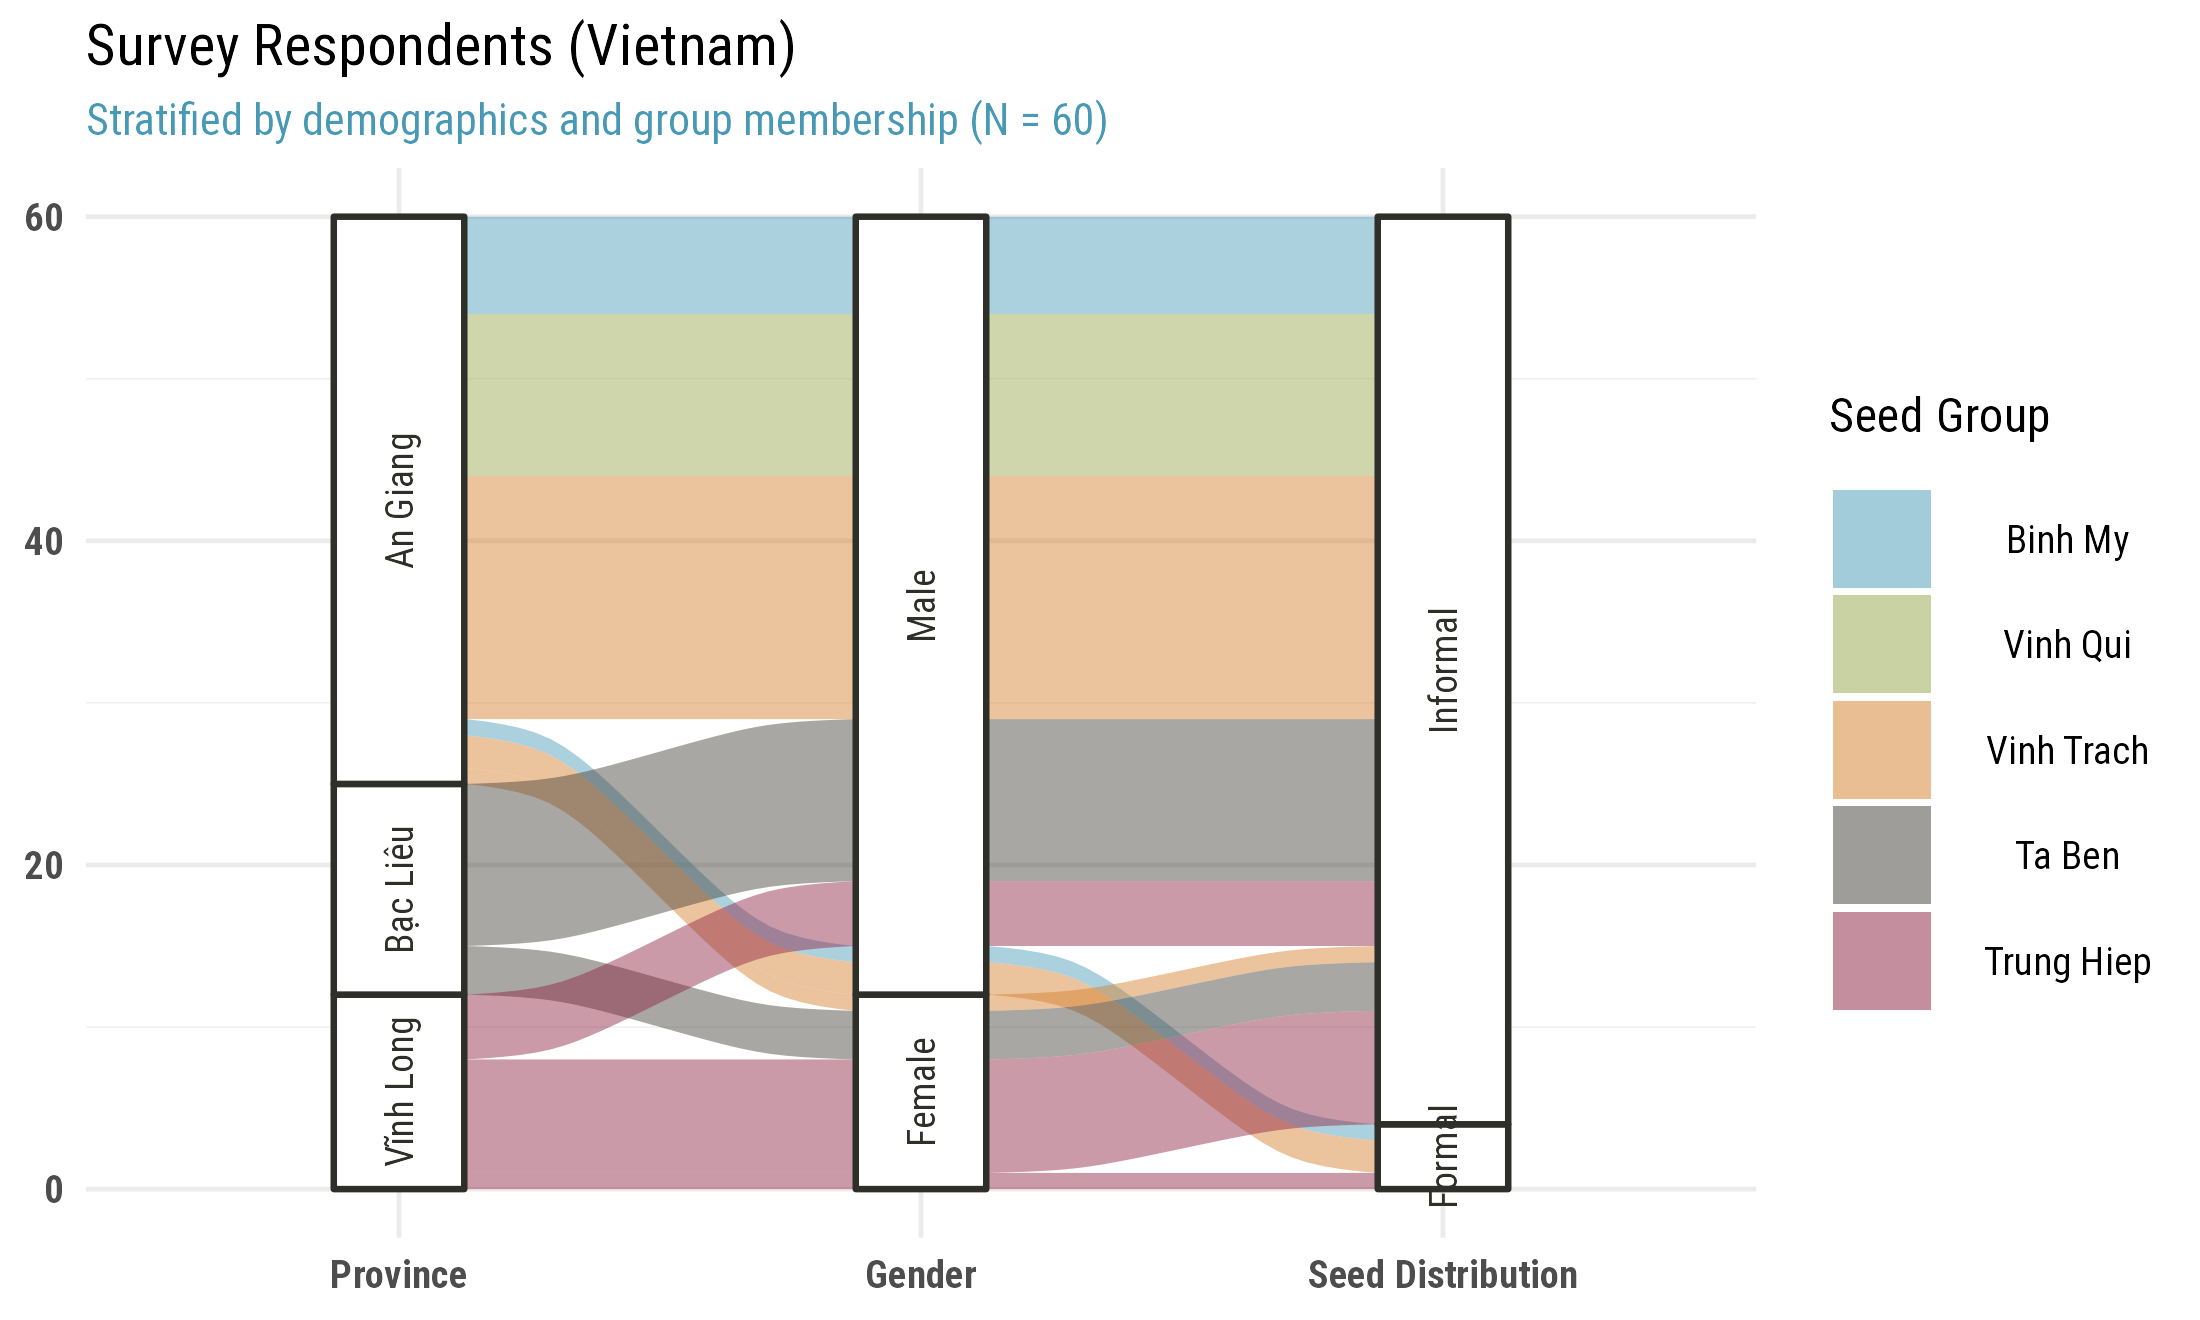
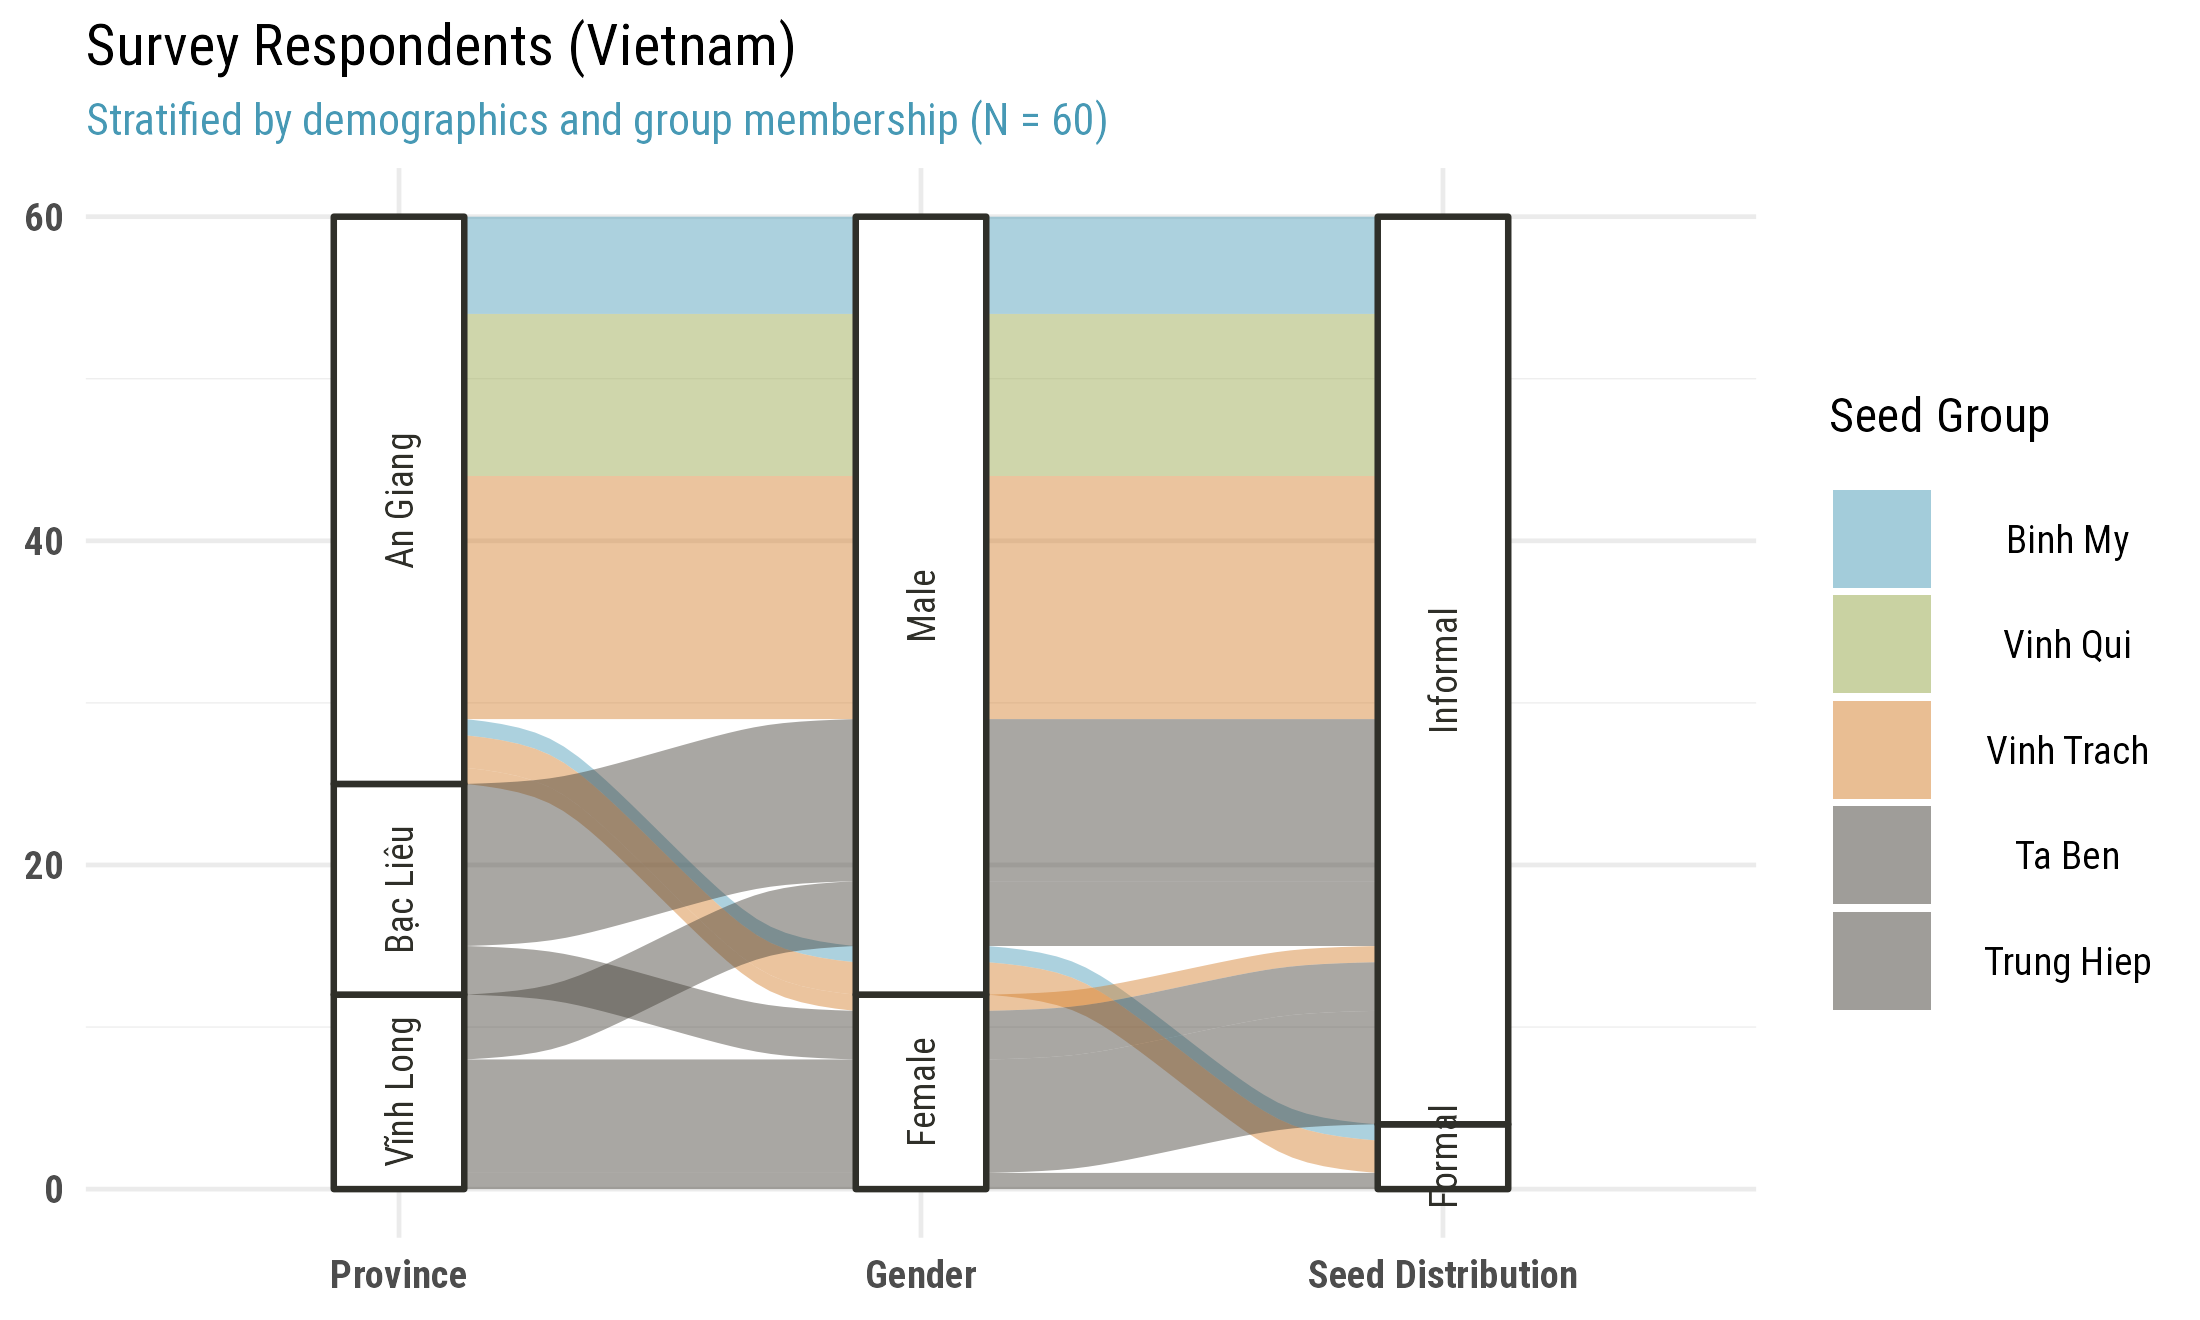
palette

diff --git a/docs/index.html b/docs/index.html
@@ -186,7 +186,7 @@ code span.wa { font-style: italic; } /* Warning */
 <span id="cb1-14"><a href="index.html#cb1-14" aria-hidden="true" tabindex="-1"></a><span class="co"># Default theme for plots</span></span>
 <span id="cb1-15"><a href="index.html#cb1-15" aria-hidden="true" tabindex="-1"></a><span class="fu">thematic_on</span>(<span class="st">&quot;transparent&quot;</span>, <span class="st">&quot;#2f2f29&quot;</span>, <span class="fu">c</span>(<span class="st">&quot;#4799b5&quot;</span>, <span class="st">&quot;#e6e7e8&quot;</span>),</span>
 <span id="cb1-16"><a href="index.html#cb1-16" aria-hidden="true" tabindex="-1"></a>  <span class="fu">font_spec</span>(<span class="fu">c</span>(<span class="st">&quot;Roboto Condensed&quot;</span>, <span class="st">&quot;Roboto&quot;</span>)),</span>
-<span id="cb1-17"><a href="index.html#cb1-17" aria-hidden="true" tabindex="-1"></a>  <span class="at">qualitative =</span> <span class="fu">alpha</span>(<span class="fu">c</span>(<span class="st">&quot;#4799b5&quot;</span>, <span class="st">&quot;#94a545&quot;</span>, <span class="st">&quot;#d37d28&quot;</span>, <span class="st">&quot;#403b33&quot;</span>, <span class="st">&quot;#8B1E3F&quot;</span>, <span class="st">&quot;#403b33&quot;</span>), .<span class="dv">9</span>))</span>
+<span id="cb1-17"><a href="index.html#cb1-17" aria-hidden="true" tabindex="-1"></a>  <span class="at">qualitative =</span> <span class="fu">alpha</span>(<span class="fu">c</span>(<span class="st">&quot;#4799b5&quot;</span>, <span class="st">&quot;#94a545&quot;</span>, <span class="st">&quot;#d37d28&quot;</span>, <span class="st">&quot;#403b33&quot;</span>, <span class="st">&quot;#403b33&quot;</span>, <span class="st">&quot;#8B1E3F&quot;</span>), .<span class="dv">9</span>))</span>
 <span id="cb1-18"><a href="index.html#cb1-18" aria-hidden="true" tabindex="-1"></a></span>
 <span id="cb1-19"><a href="index.html#cb1-19" aria-hidden="true" tabindex="-1"></a>theme_def <span class="ot">&lt;-</span> <span class="cf">function</span>(</span>
 <span id="cb1-20"><a href="index.html#cb1-20" aria-hidden="true" tabindex="-1"></a>  <span class="at">base_font =</span> <span class="st">&quot;Roboto Condensed&quot;</span>,</span>
